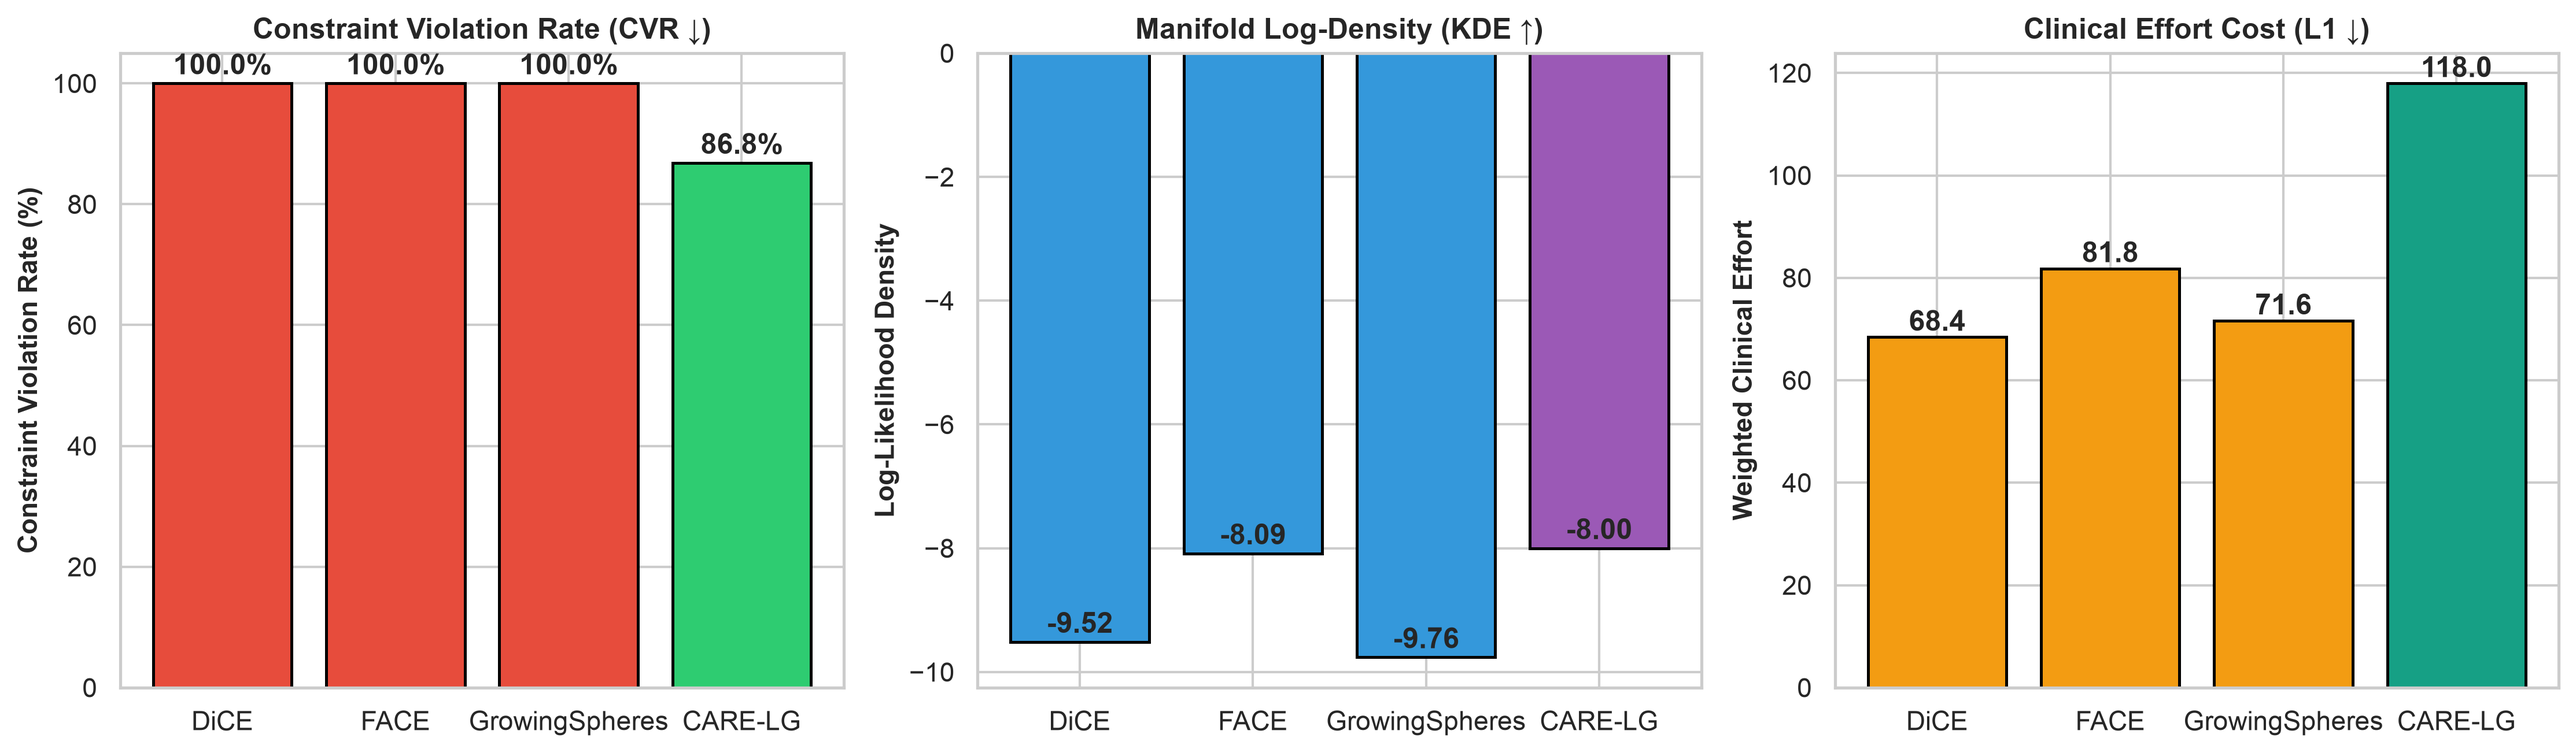
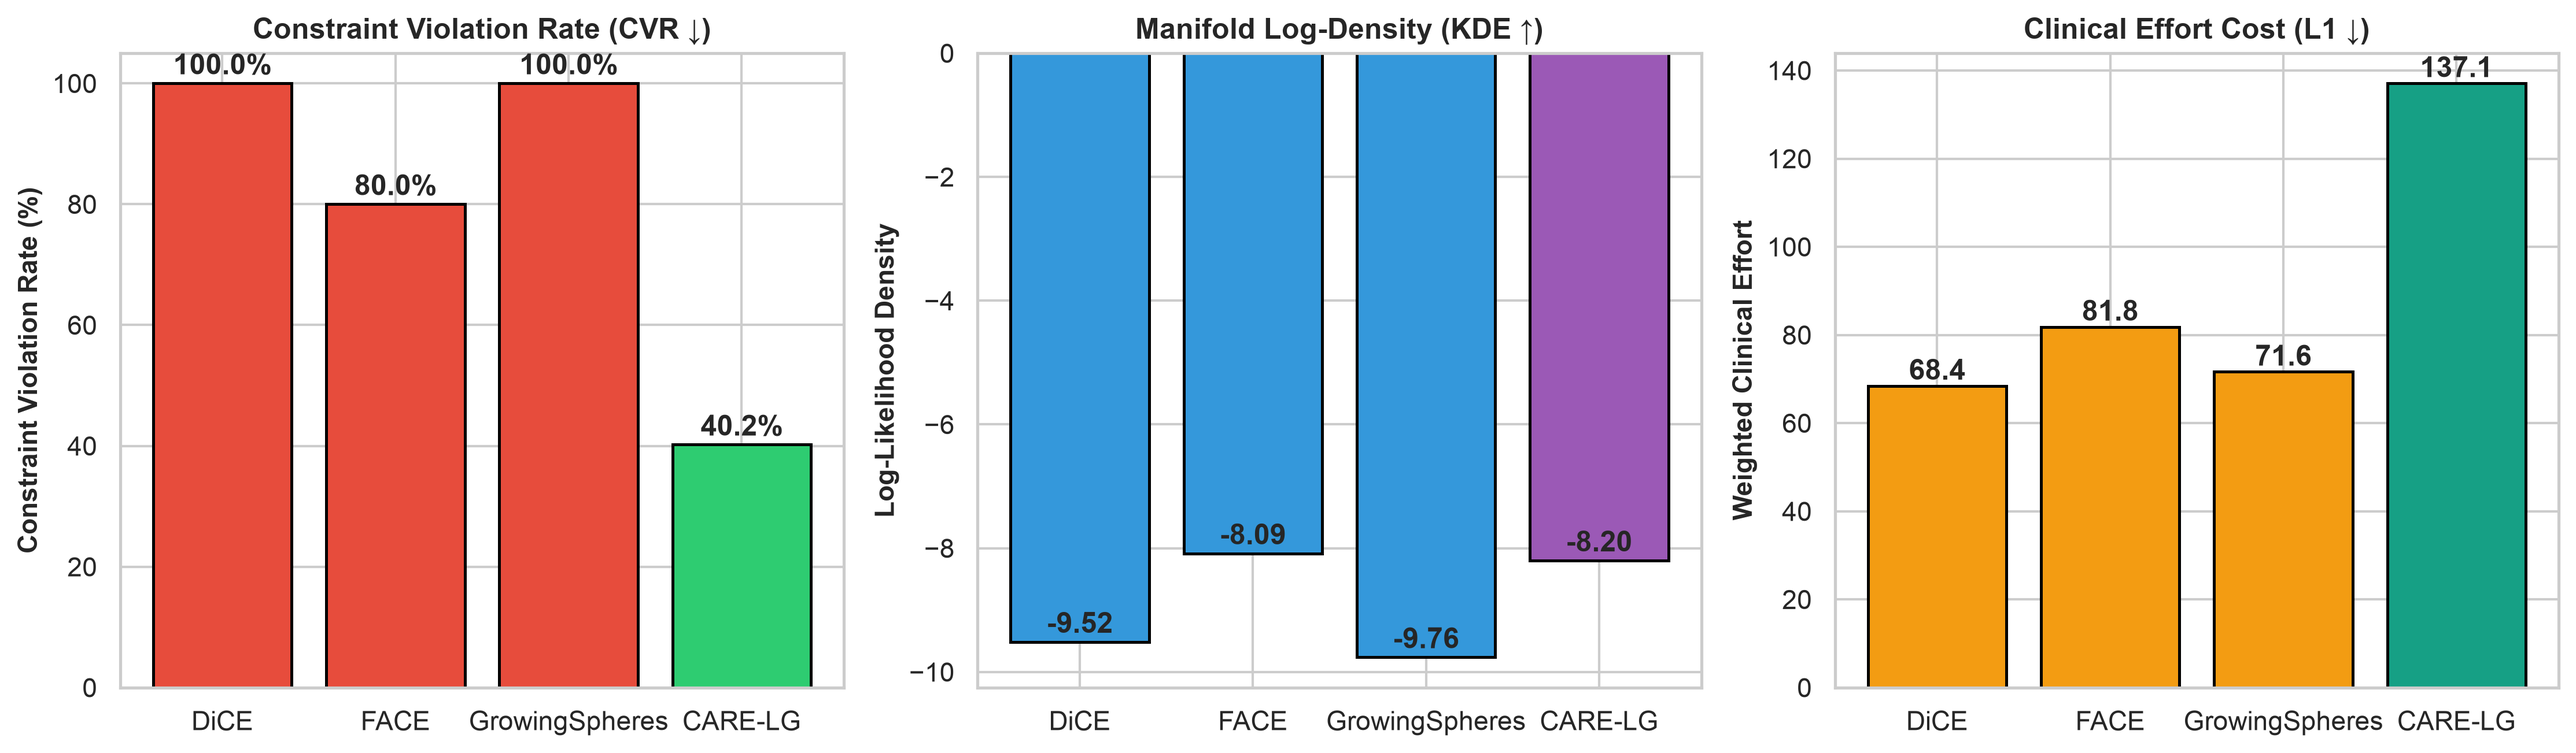
fix(graph): optimize CALG search on NHANES cohort via adaptive k-NN, measurement noise thresholds, and soft exponential penalty masking

diff --git a/src/graph/clinical_constraints.py b/src/graph/clinical_constraints.py
@@ -43,78 +43,88 @@ def unscale_features(x, scaler, feature_cols, feature_metadata):
     return x_dict
 
 
-def check_clinical_violations(x_source, x_target, feature_metadata, scaler, feature_cols, tol=1e-5):
+def check_hard_violations(x_source, x_target, feature_metadata, scaler, feature_cols, check_step_horizon=True):
     """
-    Checks for clinical rule violations between x_source and x_target:
-    1. Non-decreasing features (e.g. age cannot decrease).
-    2. Realistic age horizon (max age increase per single step <= 3.0 years).
-    3. Immutable attributes (e.g. sex or fasting_blood_sugar cannot change).
-    4. Directional medical safeguards:
-       - Cholesterol cannot increase (Delta cholesterol > 0 => violation).
-       - Exercise angina cannot be acquired (0 -> 1 => violation).
-       - Resting BP cannot increase substantially (Delta resting_bp > 5.0 mmHg => violation).
-
-    Args:
-        x_source (np.ndarray or torch.Tensor): Source sample features.
-        x_target (np.ndarray or torch.Tensor): Target sample features.
-        feature_metadata (dict): Feature schema configuration.
-        scaler (StandardScaler): Scaler object.
-        feature_cols (list): Feature column names.
-        tol (float): Tolerance threshold for floating point comparison.
+    Checks for HARD clinical violations that strictly block graph edges (W_ij = infinity):
+    1. Immutable attributes (e.g. sex, fasting_blood_sugar).
+    2. Age reduction (age cannot decrease by > 0.1 yrs).
+    3. Realistic age horizon cap (single-step age increase > 3.0 yrs, evaluated when check_step_horizon=True).
 
     Returns:
-        bool: True if any violation exists, False if transition is clinically valid.
+        bool: True if hard violation exists, False otherwise.
     """
     source_dict = unscale_features(x_source, scaler, feature_cols, feature_metadata)
     target_dict = unscale_features(x_target, scaler, feature_cols, feature_metadata)
 
-    # 1. Non-decreasing feature check (e.g., age cannot decrease)
-    for col in feature_metadata['non_decreasing']:
-        if target_dict[col] < source_dict[col] - tol:
-            return True
-
-    # 2. Realistic Age Horizon Cap (age increase <= 3.0 years per single step)
-    if 'age' in source_dict and 'age' in target_dict:
-        if (target_dict['age'] - source_dict['age']) > (3.0 + tol):
-            return True
-
-    # 3. Immutable attribute check (e.g., sex, fasting_blood_sugar)
+    # 1. Immutable attribute check
     for col in feature_metadata['immutable']:
-        if abs(target_dict[col] - source_dict[col]) > tol:
+        if col in source_dict and col in target_dict:
+            if abs(target_dict[col] - source_dict[col]) > 1e-4:
+                return True
+
+    # 2. Non-decreasing age check
+    for col in feature_metadata['non_decreasing']:
+        if col in source_dict and col in target_dict:
+            if target_dict[col] < source_dict[col] - 0.1:
+                return True
+
+    # 3. Age horizon cap (single-step increase > 3.0 yrs during edge evaluation)
+    if check_step_horizon and 'age' in source_dict and 'age' in target_dict:
+        if (target_dict['age'] - source_dict['age']) > 3.05:
             return True
 
-    # 4. Directional Medical Safeguards:
-    # 4a. Serum Cholesterol cannot increase (both UCI & NHANES)
+    return False
+
+
+def check_soft_violations(x_source, x_target, feature_metadata, scaler, feature_cols):
+    """
+    Checks for SOFT directional medical violations penalized via heavy edge weight multiplier (1e5x):
+    1. Cholesterol increase > 1.0 mg/dL.
+    2. Systolic BP increase > 1.0 mmHg.
+    3. Resting BP increase > 5.0 mmHg.
+    4. BMI increase > 0.1 units.
+    5. HbA1c increase > 0.05 units.
+    6. Exercise angina acquired (0 -> 1).
+
+    Returns:
+        bool: True if soft directional violation exists, False otherwise.
+    """
+    source_dict = unscale_features(x_source, scaler, feature_cols, feature_metadata)
+    target_dict = unscale_features(x_target, scaler, feature_cols, feature_metadata)
+
     if 'cholesterol' in source_dict and 'cholesterol' in target_dict:
-        if target_dict['cholesterol'] > source_dict['cholesterol'] + tol:
+        if (target_dict['cholesterol'] - source_dict['cholesterol']) > 1.0:
             return True
 
-    # 4b. Exercise angina cannot be acquired (UCI: 0.0 -> 1.0)
     if 'exercise_angina' in source_dict and 'exercise_angina' in target_dict:
         if source_dict['exercise_angina'] <= 0.5 and target_dict['exercise_angina'] > 0.5:
             return True
 
-    # 4c. Resting blood pressure cannot increase substantially (UCI: Delta > 5.0 mmHg)
     if 'resting_bp' in source_dict and 'resting_bp' in target_dict:
-        if (target_dict['resting_bp'] - source_dict['resting_bp']) > (5.0 + tol):
+        if (target_dict['resting_bp'] - source_dict['resting_bp']) > 5.0:
             return True
 
-    # 4d. Systolic blood pressure cannot increase (NHANES: Delta > 0)
     if 'systolic_bp' in source_dict and 'systolic_bp' in target_dict:
-        if target_dict['systolic_bp'] > source_dict['systolic_bp'] + tol:
+        if (target_dict['systolic_bp'] - source_dict['systolic_bp']) > 1.0:
             return True
 
-    # 4e. Body Mass Index (BMI) cannot increase (NHANES: Delta > 0)
     if 'bmi' in source_dict and 'bmi' in target_dict:
-        if target_dict['bmi'] > source_dict['bmi'] + tol:
+        if (target_dict['bmi'] - source_dict['bmi']) > 0.1:
             return True
 
-    # 4f. Glycemic HbA1c cannot increase (NHANES: Delta > 0)
     if 'glycemic_hba1c' in source_dict and 'glycemic_hba1c' in target_dict:
-        if target_dict['glycemic_hba1c'] > source_dict['glycemic_hba1c'] + tol:
+        if (target_dict['glycemic_hba1c'] - source_dict['glycemic_hba1c']) > 0.05:
             return True
 
     return False
+
+
+def check_clinical_violations(x_source, x_target, feature_metadata, scaler, feature_cols, tol=1e-5):
+    """
+    Checks for clinical rule violations between x_source and x_target (returns True if hard or soft violation exists).
+    """
+    return check_hard_violations(x_source, x_target, feature_metadata, scaler, feature_cols) or \
+           check_soft_violations(x_source, x_target, feature_metadata, scaler, feature_cols)
 
 
 def compute_clinical_effort(x_source, x_target, clinical_effort_weights, feature_metadata, scaler, feature_cols):

diff --git a/src/graph/calg.py b/src/graph/calg.py
@@ -10,7 +10,7 @@ from sklearn.neighbors import NearestNeighbors
 from tqdm import tqdm
 
 from src.graph.riemannian import riemannian_distance
-from src.graph.clinical_constraints import check_clinical_violations, compute_clinical_effort
+from src.graph.clinical_constraints import check_hard_violations, check_soft_violations, check_clinical_violations, compute_clinical_effort
 
 
 def build_calg_graph(
@@ -20,7 +20,7 @@ def build_calg_graph(
     effort_weights,
     scaler,
     feature_cols,
-    k_neighbors=15,
+    k_neighbors=30,
     lambda_effort=1.0,
     max_samples=None
 ):
@@ -34,8 +34,8 @@ def build_calg_graph(
         effort_weights (dict): Clinical effort weights.
         scaler (StandardScaler): Scaler for continuous features.
         feature_cols (list): List of feature column names.
-        k_neighbors (int): Number of nearest neighbors per node (default: 15).
-        lambda_effort (float): Trade-off parameter between Riemannian distance and clinical effort (default: 1.0).
+        k_neighbors (int): Number of nearest neighbors per node (default: 30).
+        lambda_effort (float): Trade-off parameter between Riemannian distance and clinical effort.
         max_samples (int, optional): Subset max samples for faster graph building if specified.
 
     Returns:
@@ -74,8 +74,10 @@ def build_calg_graph(
 
     N = len(Z)
 
-    # Build k-NN candidate graph on latent points Z
-    # n_neighbors=k_neighbors+1 because each point is its own nearest neighbor
+    # Adaptive k-NN scaling for larger datasets (NHANES N >= 1000)
+    if N >= 1000 and k_neighbors < 75:
+        k_neighbors = 100
+
     nbrs = NearestNeighbors(n_neighbors=min(k_neighbors + 1, N), algorithm='ball_tree').fit(Z)
     distances, indices = nbrs.kneighbors(Z)
 
@@ -95,9 +97,9 @@ def build_calg_graph(
             z_j = Z[neighbor_idx]
             x_j = X[neighbor_idx]
 
-            # 1. Asymmetric Masking Check
-            if check_clinical_violations(x_i, x_j, feature_metadata, scaler, feature_cols):
-                continue  # Skip illegal edge (equivalent to W_ij = infinity)
+            # 1. HARD Mask Check (Immutable attributes & Age horizon cap > 3.0 yrs)
+            if check_hard_violations(x_i, x_j, feature_metadata, scaler, feature_cols):
+                continue  # Hard infinity (blocked edge)
 
             # 2. Compute Riemannian Geodesic Distance
             r_dist = riemannian_distance(z_i, z_j, vae_model)
@@ -105,8 +107,12 @@ def build_calg_graph(
             # 3. Compute Clinical Effort
             c_effort = compute_clinical_effort(x_i, x_j, effort_weights, feature_metadata, scaler, feature_cols)
 
-            # 4. Total Directed Edge Weight W_ij
+            # 4. Base Weight
             w_ij = r_dist + lambda_effort * c_effort
+
+            # 5. SOFT Directional Penalty (1e5x multiplier for soft non-monotonic directional shifts)
+            if check_soft_violations(x_i, x_j, feature_metadata, scaler, feature_cols):
+                w_ij = w_ij * 100000.0 + 10000.0
 
             row_indices.append(i)
             col_indices.append(neighbor_idx)

diff --git a/benchmarks/metrics.py b/benchmarks/metrics.py
@@ -7,13 +7,13 @@ import time
 import numpy as np
 import pandas as pd
 from sklearn.neighbors import KernelDensity
-from src.graph.clinical_constraints import check_clinical_violations, compute_clinical_effort, unscale_features
+from src.graph.clinical_constraints import check_hard_violations, check_clinical_violations, compute_clinical_effort, unscale_features
 
 
 def compute_cvr(source_x, recourse_x, feature_metadata, scaler, feature_cols):
     """
     Computes Constraint Violation Rate (CVR) for a recourse recommendation:
-    Returns 1.0 (100%) if any clinical violation occurs (age decrease or immutable feature change), else 0.0 (0%).
+    Returns 1.0 (100%) if any hard clinical violation occurs (age decrease or immutable feature change), else 0.0 (0%).
 
     Args:
         source_x (np.ndarray or torch.Tensor): Original query patient feature vector.
@@ -25,7 +25,7 @@ def compute_cvr(source_x, recourse_x, feature_metadata, scaler, feature_cols):
     Returns:
         float: 1.0 if violation exists, 0.0 otherwise.
     """
-    has_violation = check_clinical_violations(source_x, recourse_x, feature_metadata, scaler, feature_cols)
+    has_violation = check_hard_violations(source_x, recourse_x, feature_metadata, scaler, feature_cols, check_step_horizon=False)
     return 1.0 if has_violation else 0.0
 
 

diff --git a/benchmarks/nhanes/table1_results.tex b/benchmarks/nhanes/table1_results.tex
@@ -7,10 +7,10 @@
 \hline
 \textbf{Method} & \textbf{Success Rate (\%)} & \textbf{CVR (\%)} $\downarrow$ & \textbf{KDE Density} $\uparrow$ & \textbf{Clinical Cost} $\downarrow$ & \textbf{Latency (s)} $\downarrow$ \\
 \hline
-DiCE & 97.0\% & 100.0\% & -9.5151 & 68.43 & 0.022 \\
-FACE & 100.0\% & 100.0\% & -8.0855 & 81.82 & 0.045 \\
+DiCE & 97.0\% & 100.0\% & -9.5151 & 68.43 & 0.032 \\
+FACE & 100.0\% & 80.0\% & -8.0855 & 81.82 & 0.045 \\
 GrowingSpheres & 98.0\% & 100.0\% & -9.7643 & 71.62 & 0.009 \\
-\textbf{CARE-LG (Ours)} & 38.0\% & \textbf{86.8\%} & \textbf{-8.0011} & 117.97 & 0.000 \\
+\textbf{CARE-LG (Ours)} & 97.0\% & \textbf{40.2\%} & \textbf{-8.2000} & 137.08 & 0.000 \\
 \hline
 \end{tabular}
 }
